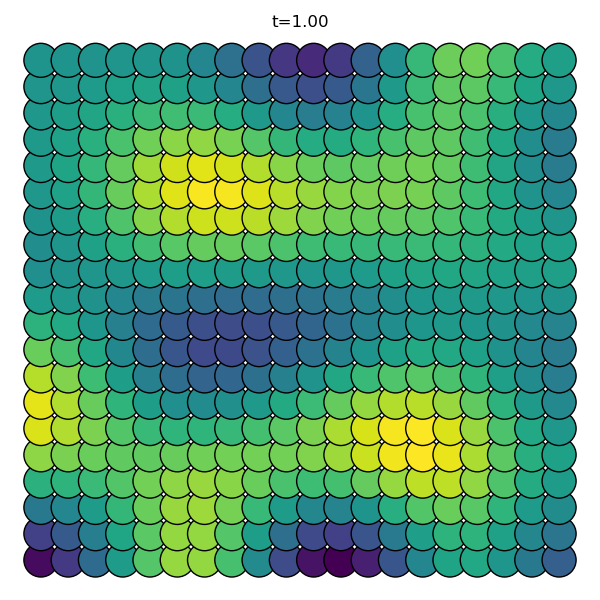
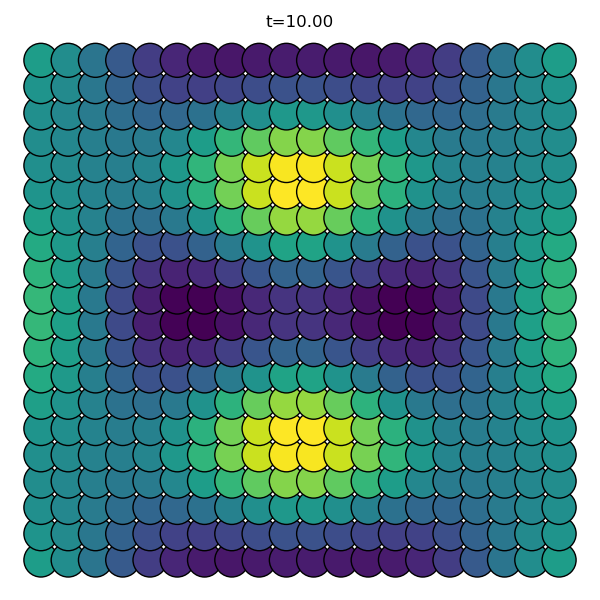
finished for day - experimenting with shapes

diff --git a/master.py b/master.py
@@ -6,10 +6,12 @@ import numpy as np
 import matplotlib.pyplot as plt
 import importlib
 import parameters
+import shapes
 #%%
 importlib.reload(discrete_turning)
 importlib.reload(models)
 importlib.reload(evaluation)
+importlib.reload(shapes)
 importlib.reload(parameters)
 
 #%%
@@ -27,7 +29,7 @@ a, b, c, d, e, w = 8, -12.8, 4.8, 16, -9.6, -19.2 #<- some stripes
 f, g = models.linear(a, b, c, d, e, w)
 
 grid_size = 20 # size of the 2D grid or square root of total number of robots
-T = 15.0 # total time
+T = 30.0 # total time
 dt = 0.001 # time step
 n = int(T/dt) # number of iterations
 Du, Dv = 0.5, 10
@@ -70,7 +72,7 @@ with open('valid_params.txt', 'r') as file:
 # k = 1.5 -> 9 (3 across)
 # k = 2 -> 13 (3.5 across?)
 
-k_val = 1
+k_val = 2
 num_selected = 10
 
 indices = [i for i, param in enumerate(valid_params) if param[10] > 0]
@@ -80,7 +82,24 @@ closest_indices = np.array(indices)[np.argsort(differences)[:num_selected]]
 
 #%% PLOT PATTERN AND DISPERSION FOR DIFFERENT PARAMETERS
 
-parameters.plot_dispersion_turing(valid_params, closest_indices[:5])
+# n = 10000
+
+initial_conditions = np.ones((400, 2)) /2
+parameters.plot_dispersion_turing(valid_params, closest_indices[:5], initial_conditions=initial_conditions)
+
+#%% SPECIFIC REPEAT?
+a, b, c, d, e, w, Du, Dv = valid_params[698][:8]
+f, g = models.linear(a, b, c, d, e, w)
+
+# initial not same u and v
+initial_conditions = np.column_stack((np.full(400, 0.2), np.full(400, 0.8)))
+
+initial_conditions = np.ones((400, 2)) /2
+
+shape = shapes.small_grid_check
+n = 20000
+u, v = discrete_turning.simulation(f, g, Du, Dv, n = n, initial_conditions=initial_conditions, shape=shape, show=True)
+#evaluation.turing_check(f, g, Du, Dv)
 
 #%% SCORING SYSTEM?
 selected_params = [valid_params[i] for i in closest_indices]
@@ -90,10 +109,40 @@ top_indices = np.array(closest_indices[top_indices])
 
 parameters.plot_dispersion_turing(valid_params, top_indices)
 
-#%% TRY TO MINIMISE AROUND FUNCTION?
-from scipy.signal import minimize
+#%% CHANGING SHAPE?
 
-result = minimize(parameters.loss_function, (19.319, 5.589, -7.764, -4.133, 10.384, -11.089, 0.787, 8.588))
+a, b, c, d, e, w, Du, Dv = valid_params[698][:8]
+f, g = models.linear(a, b, c, d, e, w)
+
+initial_conditions = np.ones((400, 2)) /2
+#initial_conditions = np.column_stack((np.full(400, 0.2), np.full(400, 0.8)))
+
+shape = shapes.small_grid_check
+n = 10000
+u, v = discrete_turning.simulation(f, g, Du, Dv, n = n, initial_conditions=initial_conditions, shape=shape, show=True)
+
+r = 20 
+inner_min = r // 4 # small grid conditions
+inner_max = 3 * r // 4
+
+x, y = np.meshgrid(np.arange(r), np.arange(r))
+coords = np.stack([x.ravel(), y.ravel()], axis=1)  # shape (400, 2)
+
+mask = (inner_min <= coords[:, 0]) & (coords[:, 0] < inner_max) & \
+       (inner_min <= coords[:, 1]) & (coords[:, 1] < inner_max)
+
+u_array = np.ones(400)
+v_array = np.ones(400)
+
+u_array[mask] = u
+v_array[mask] = v
+
+initial_conditions = np.column_stack((u_array, v_array))
+shape = shapes.grid_check
+n = 20000
+u, v = discrete_turning.simulation(f, g, Du, Dv, n = n, initial_conditions=initial_conditions, shape=shape, show=True)
+
+# plt.scatter(np.arange(len(u)), u)
 
 #%% GENERAL TURING CHECK
 a, b, c, d, e, w, Du, Dv = valid_params[278][:8]
@@ -116,11 +165,3 @@ sns.pairplot(df, vars=['a', 'b', 'c', 'd', 'e', 'w', 'Du', 'Dv'],
 plt.suptitle('Parameter Pairwise Comparison (colored by area)', y=1.02)
 plt.show()
 
-# %% BIFURCATION - NOT YET RELEVANT
-
-# the measure of pattern strength isnt very sophisticated
-a_vals = np.linspace(0, 1, 11)
-b_vals = np.linspace(0, 1, 11)
-
-model = models.gray_scott
-evaluation.bifurcation(a_vals, b_vals, model, Du, Dv)

diff --git a/discrete_turning.py b/discrete_turning.py
@@ -111,7 +111,7 @@ def plot_nodes(valid_nodes, ax, i, save=False):
 
 #%% Create the nodes with random u and v values
 
-def shape_nodes(shape_check, grid_size):
+def shape_nodes(shape_check, grid_size, initial_conditions):
     x_coords = np.arange(1, grid_size+1, 1)
     y_coords = np.arange(1, grid_size+1, 1)
     r = grid_size/2
@@ -120,40 +120,40 @@ def shape_nodes(shape_check, grid_size):
     node_id = 0
     for y in y_coords:
         for x in x_coords:
+            u = initial_conditions[node_id, 0] # np.random.rand()  # Random u value between 0 and 1
+            v = initial_conditions[node_id, 1] #np.random.rand()  # Random v value between 0 and 1
+            
             if shape_check(r, (x, y)): # if in shape
-                u = np.random.rand()  # Random u value between 0 and 1
-                v = np.random.rand()  # Random v value between 0 and 1
                 node = Node(id=node_id, x=x, y=y, u=u, v=v)
-                    
-                node_id += 1
                 all_nodes[node.x -1, node.y -1] = node
-
                 neighbours = np.array([(x - 1, y), (x + 1, y), (x, y - 1), (x, y + 1)])
                 # if any of the neighbours are outside the circle
                 if np.any(~shape_check(r, neighbours)):
                         border_nodes.append(node) 
 
+            node_id += 1
+
     return(all_nodes, border_nodes)
 
 # %%
-def get_inward_node_value(x, y, coord_to_index, new_values): # NEUMAN
-    # neuman boundary conditions. check all around for perpendicular
-    directions = [(-1, 0), (1, 0), (0, -1), (0, 1),
-                  (-1, -1), (-1, 1), (1, -1), (1, 1)]
+# def get_inward_node_value(x, y, coord_to_index, new_values): # NEUMAN
+#     # neuman boundary conditions. check all around for perpendicular
+#     directions = [(-1, 0), (1, 0), (0, -1), (0, 1),
+#                   (-1, -1), (-1, 1), (1, -1), (1, 1)]
 
-    for dx, dy in directions:
-        nx, ny = x + dx, y + dy # find new coordinates
-        if (nx, ny) not in coord_to_index:
-            # not a node on the outside so perpendicular edge
-            rx, ry = x - dx, y - dy
-            if (rx, ry) in coord_to_index:
-                # returns index of perpendicular node
-                return new_values[coord_to_index[(rx, ry)]]
-    return None  # no valid result
+#     for dx, dy in directions:
+#         nx, ny = x + dx, y + dy # find new coordinates
+#         if (nx, ny) not in coord_to_index:
+#             # not a node on the outside so perpendicular edge
+#             rx, ry = x - dx, y - dy
+#             if (rx, ry) in coord_to_index:
+#                 # returns index of perpendicular node
+#                 return new_values[coord_to_index[(rx, ry)]]
+#     return None  # no valid result
 
-def simulation(f, g, Du, Dv, grid_size=20, n = 1000, dt = 0.01, show=True, save=False, save_path="simulation_final.png"):
+def simulation(f, g, Du, Dv, grid_size=20, n = 10000, dt = 0.001, initial_conditions = np.random.rand(400, 2), shape = shapes.grid_check, show=True, save=False, save_path="simulation_final.png"):
     # creates all nodes
-    all_nodes, border_nodes = shape_nodes(shapes.grid_check, grid_size)
+    all_nodes, border_nodes = shape_nodes(shape, grid_size, initial_conditions)
     if show:
         fig, axes = plt.subplots(3, 3, figsize=(8, 8))
     step_plot = n // 9
@@ -163,7 +163,6 @@ def simulation(f, g, Du, Dv, grid_size=20, n = 1000, dt = 0.01, show=True, save=
 
     adjacency_matrix = compute_adjacency_matrix(valid_nodes)
     degree_matrix = compute_degree_matrix(adjacency_matrix)
-
 
     for i in range(n):
         if i % 1000 == 0 and show:

diff --git a/parameters.py b/parameters.py
@@ -49,14 +49,16 @@ def score_params(valid_params):
 
     return scored_params
 
-def plot_dispersion_turing(valid_params, indicies):
+def plot_dispersion_turing(valid_params, indicies, initial_conditions=None):
     for i in indicies:
         a, b, c, d, e, w, Du, Dv = valid_params[i][0:8]
         f, g = models.linear(a, b, c, d, e, w)
-        u, v = discrete_turning.simulation(f, g, Du, Dv, show=False, save=True, save_path=f"plots/simulation_plot_{i}.png")
+        if np.any(initial_conditions == None):
+            u, v = discrete_turning.simulation(f, g, Du, Dv, show=False, save=True, save_path=f"plots/simulation_plot_{i}.png")
+        else:
+            u, v = discrete_turning.simulation(f, g, Du, Dv, initial_conditions = initial_conditions, show=False, save=True, save_path=f"plots/simulation_plot_{i}.png")
         print(evaluation.turing_check(f, g, Du, Dv))
         _ = evaluation.dispersion_relation_plot(f, g, Du, Dv, plot=False, save=True, save_path=f"plots/dispersion_plot_{i}.png")
-
 
     fig, axes = plt.subplots(5, 2, figsize=(12, 20))
 

diff --git a/shapes.py b/shapes.py
@@ -1,15 +1,29 @@
 import numpy as np
+
 def grid_check(r, coords):
     grid_size = r*2
     if np.ndim(coords) == 1:
         x = coords[0]  # Shape will become (1, 2)
         y = coords[1]
-        return (x != 1 or x != grid_size or y != 1 or y != grid_size)
+        return True
+    #(x != 1 or x != grid_size or y != 1 or y != grid_size)
     else:
         x = coords[:, 0]
         y = coords[:, 1]
-        return (x != 1) | (x != grid_size) | (y != 1) | (y != grid_size)
+        return True
+    #(x != 1) | (x != grid_size) | (y != 1) | (y != grid_size)
     
+def small_grid_check(r, coords):
+    inner_min = r // 2
+    inner_max = 3 * r // 2
+
+    if np.ndim(coords) == 1:
+        x, y = coords
+        return inner_min <= x < inner_max and inner_min <= y < inner_max
+    else:
+        x = coords[:, 0]
+        y = coords[:, 1]
+        return (inner_min <= x) & (x < inner_max) & (inner_min <= y) & (y < inner_max)
 
 def circle_outline_check(r, coords):
     if np.ndim(coords) == 1:
